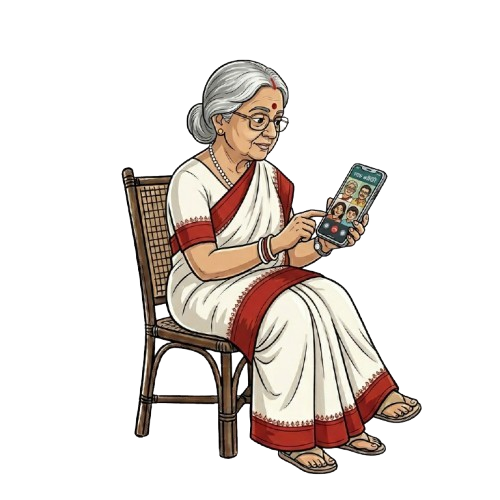
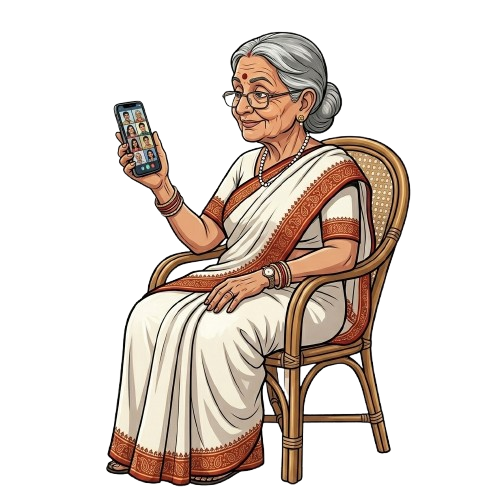
minor detailing

diff --git a/src/components/HowItWorks.tsx b/src/components/HowItWorks.tsx
@@ -224,7 +224,7 @@ export default function HowItWorks() {
                     width: '120%',
                     maxWidth: 650,
                     height: 'auto',
-                    transform: 'scaleX(-1) scale(1.15)', // Flip and Zoom
+                    transform: 'scale(1.15)', // Zoom
                     borderRadius: '24px',
                     objectFit: 'contain',
                     mr: { md: -10 }, // Push into the corner
